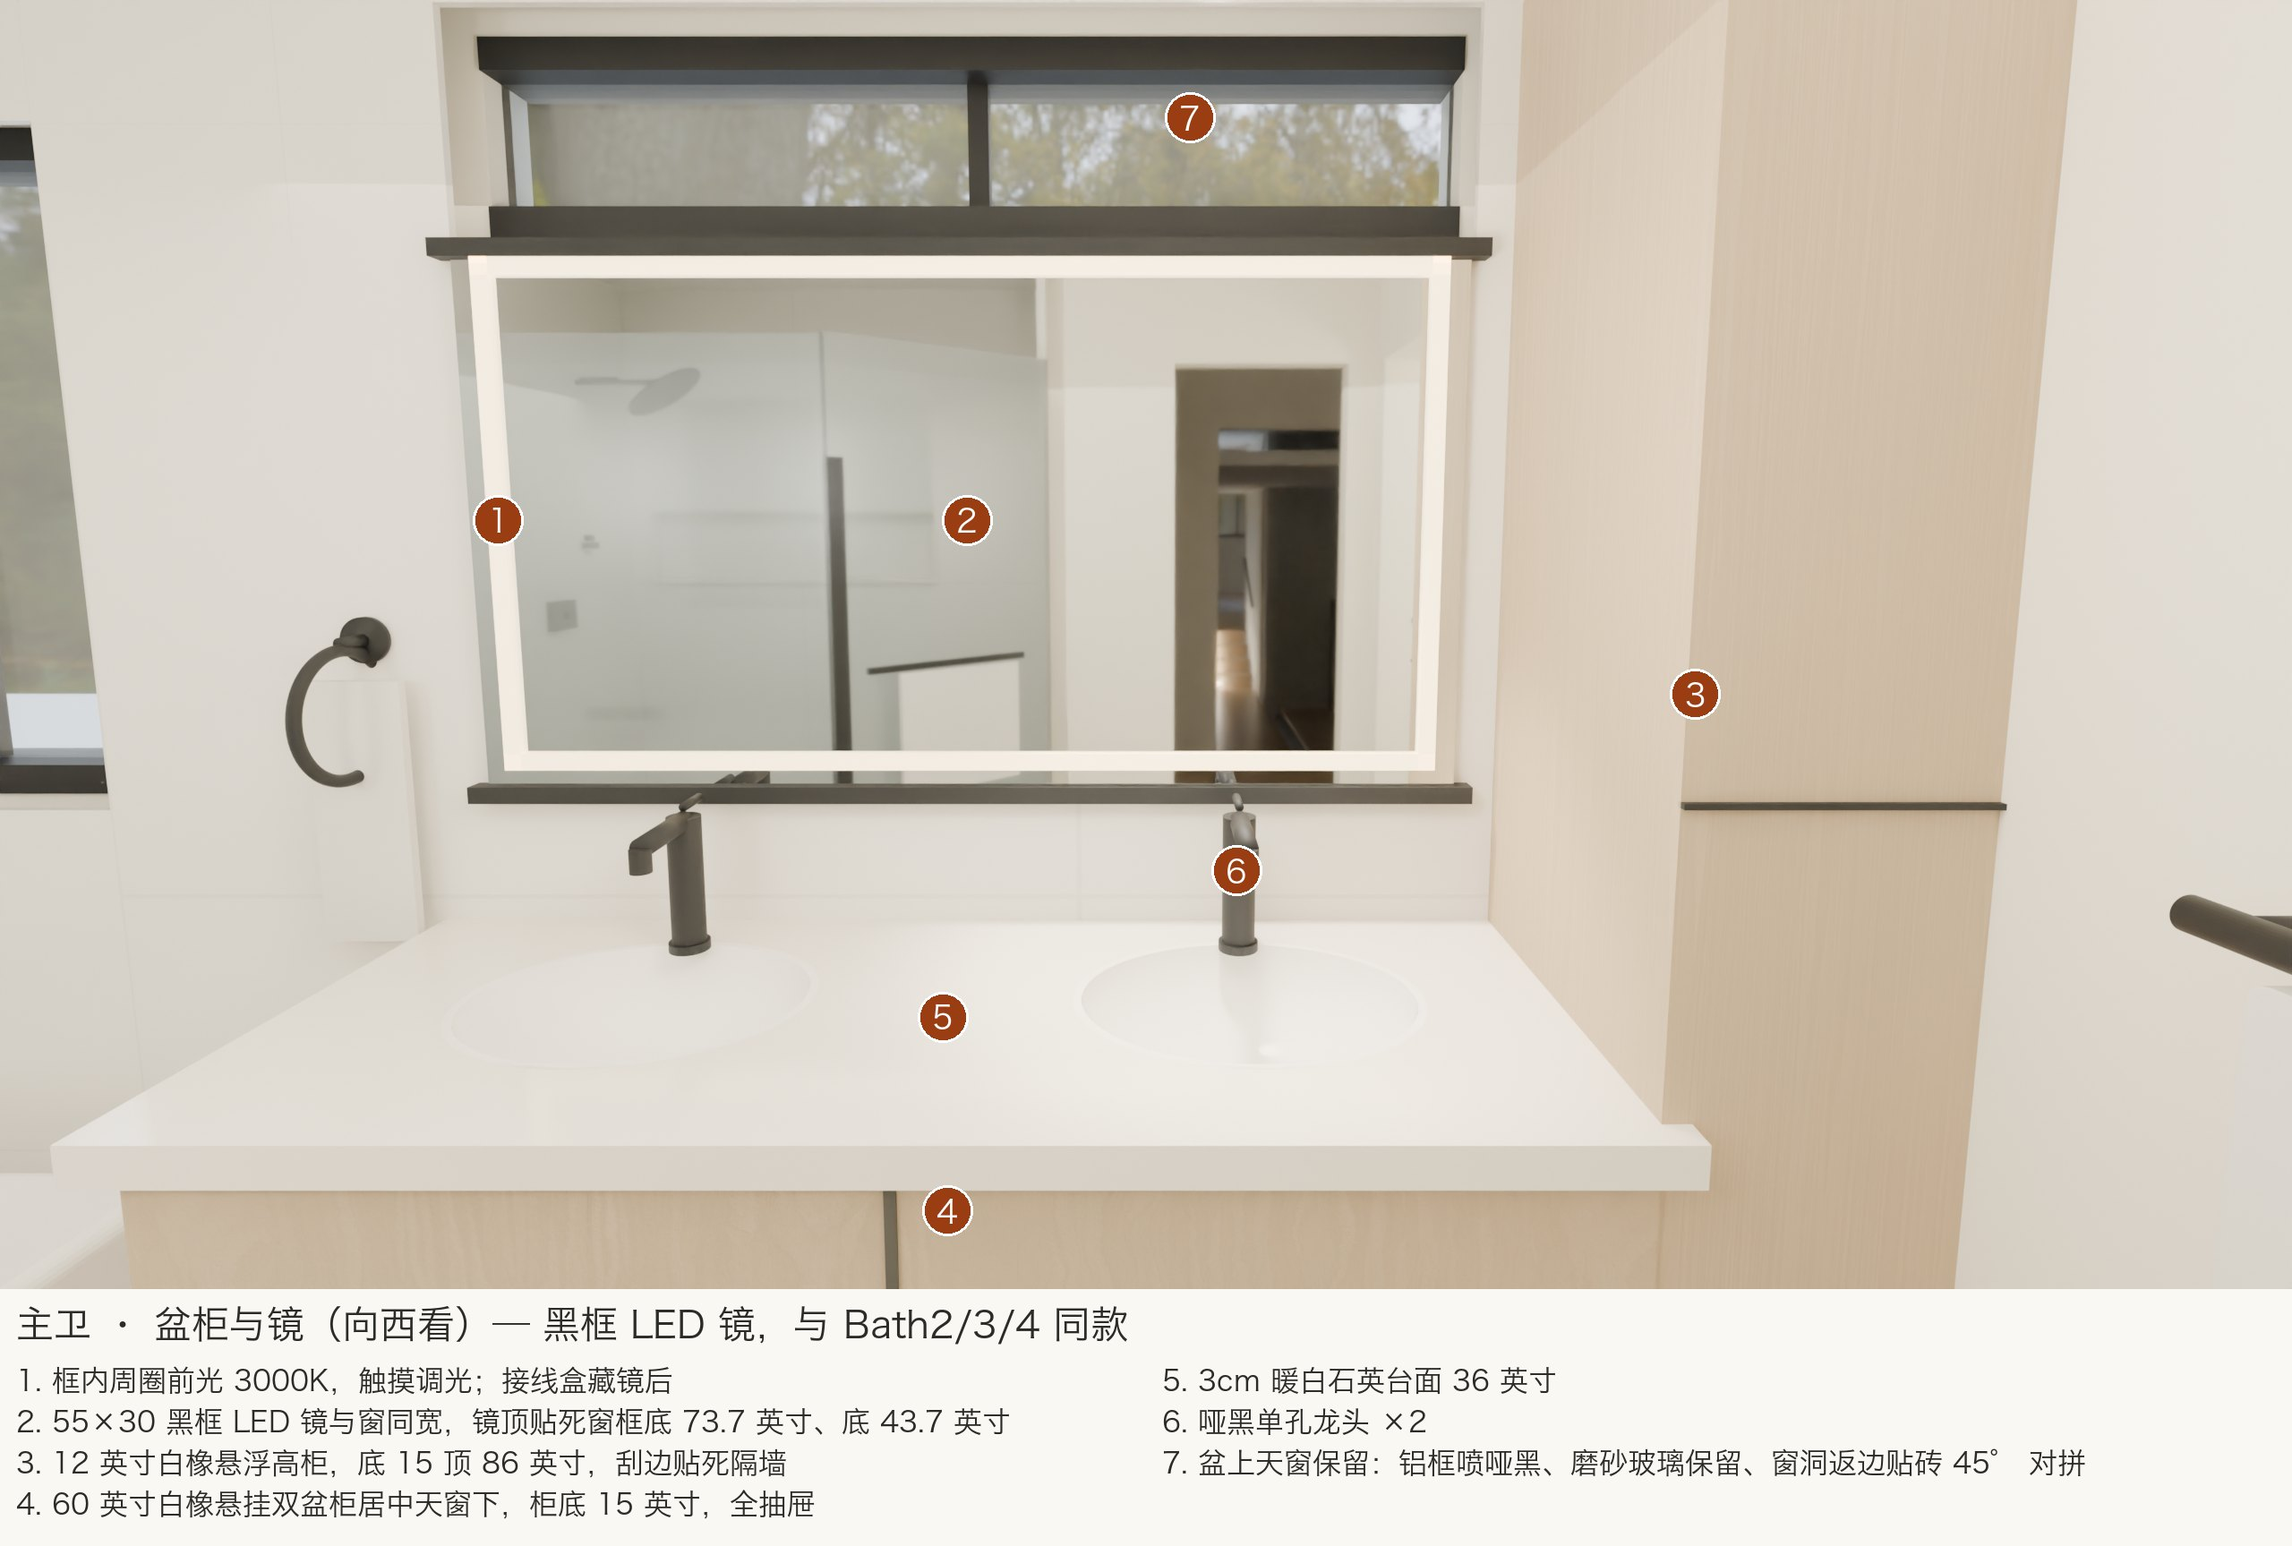
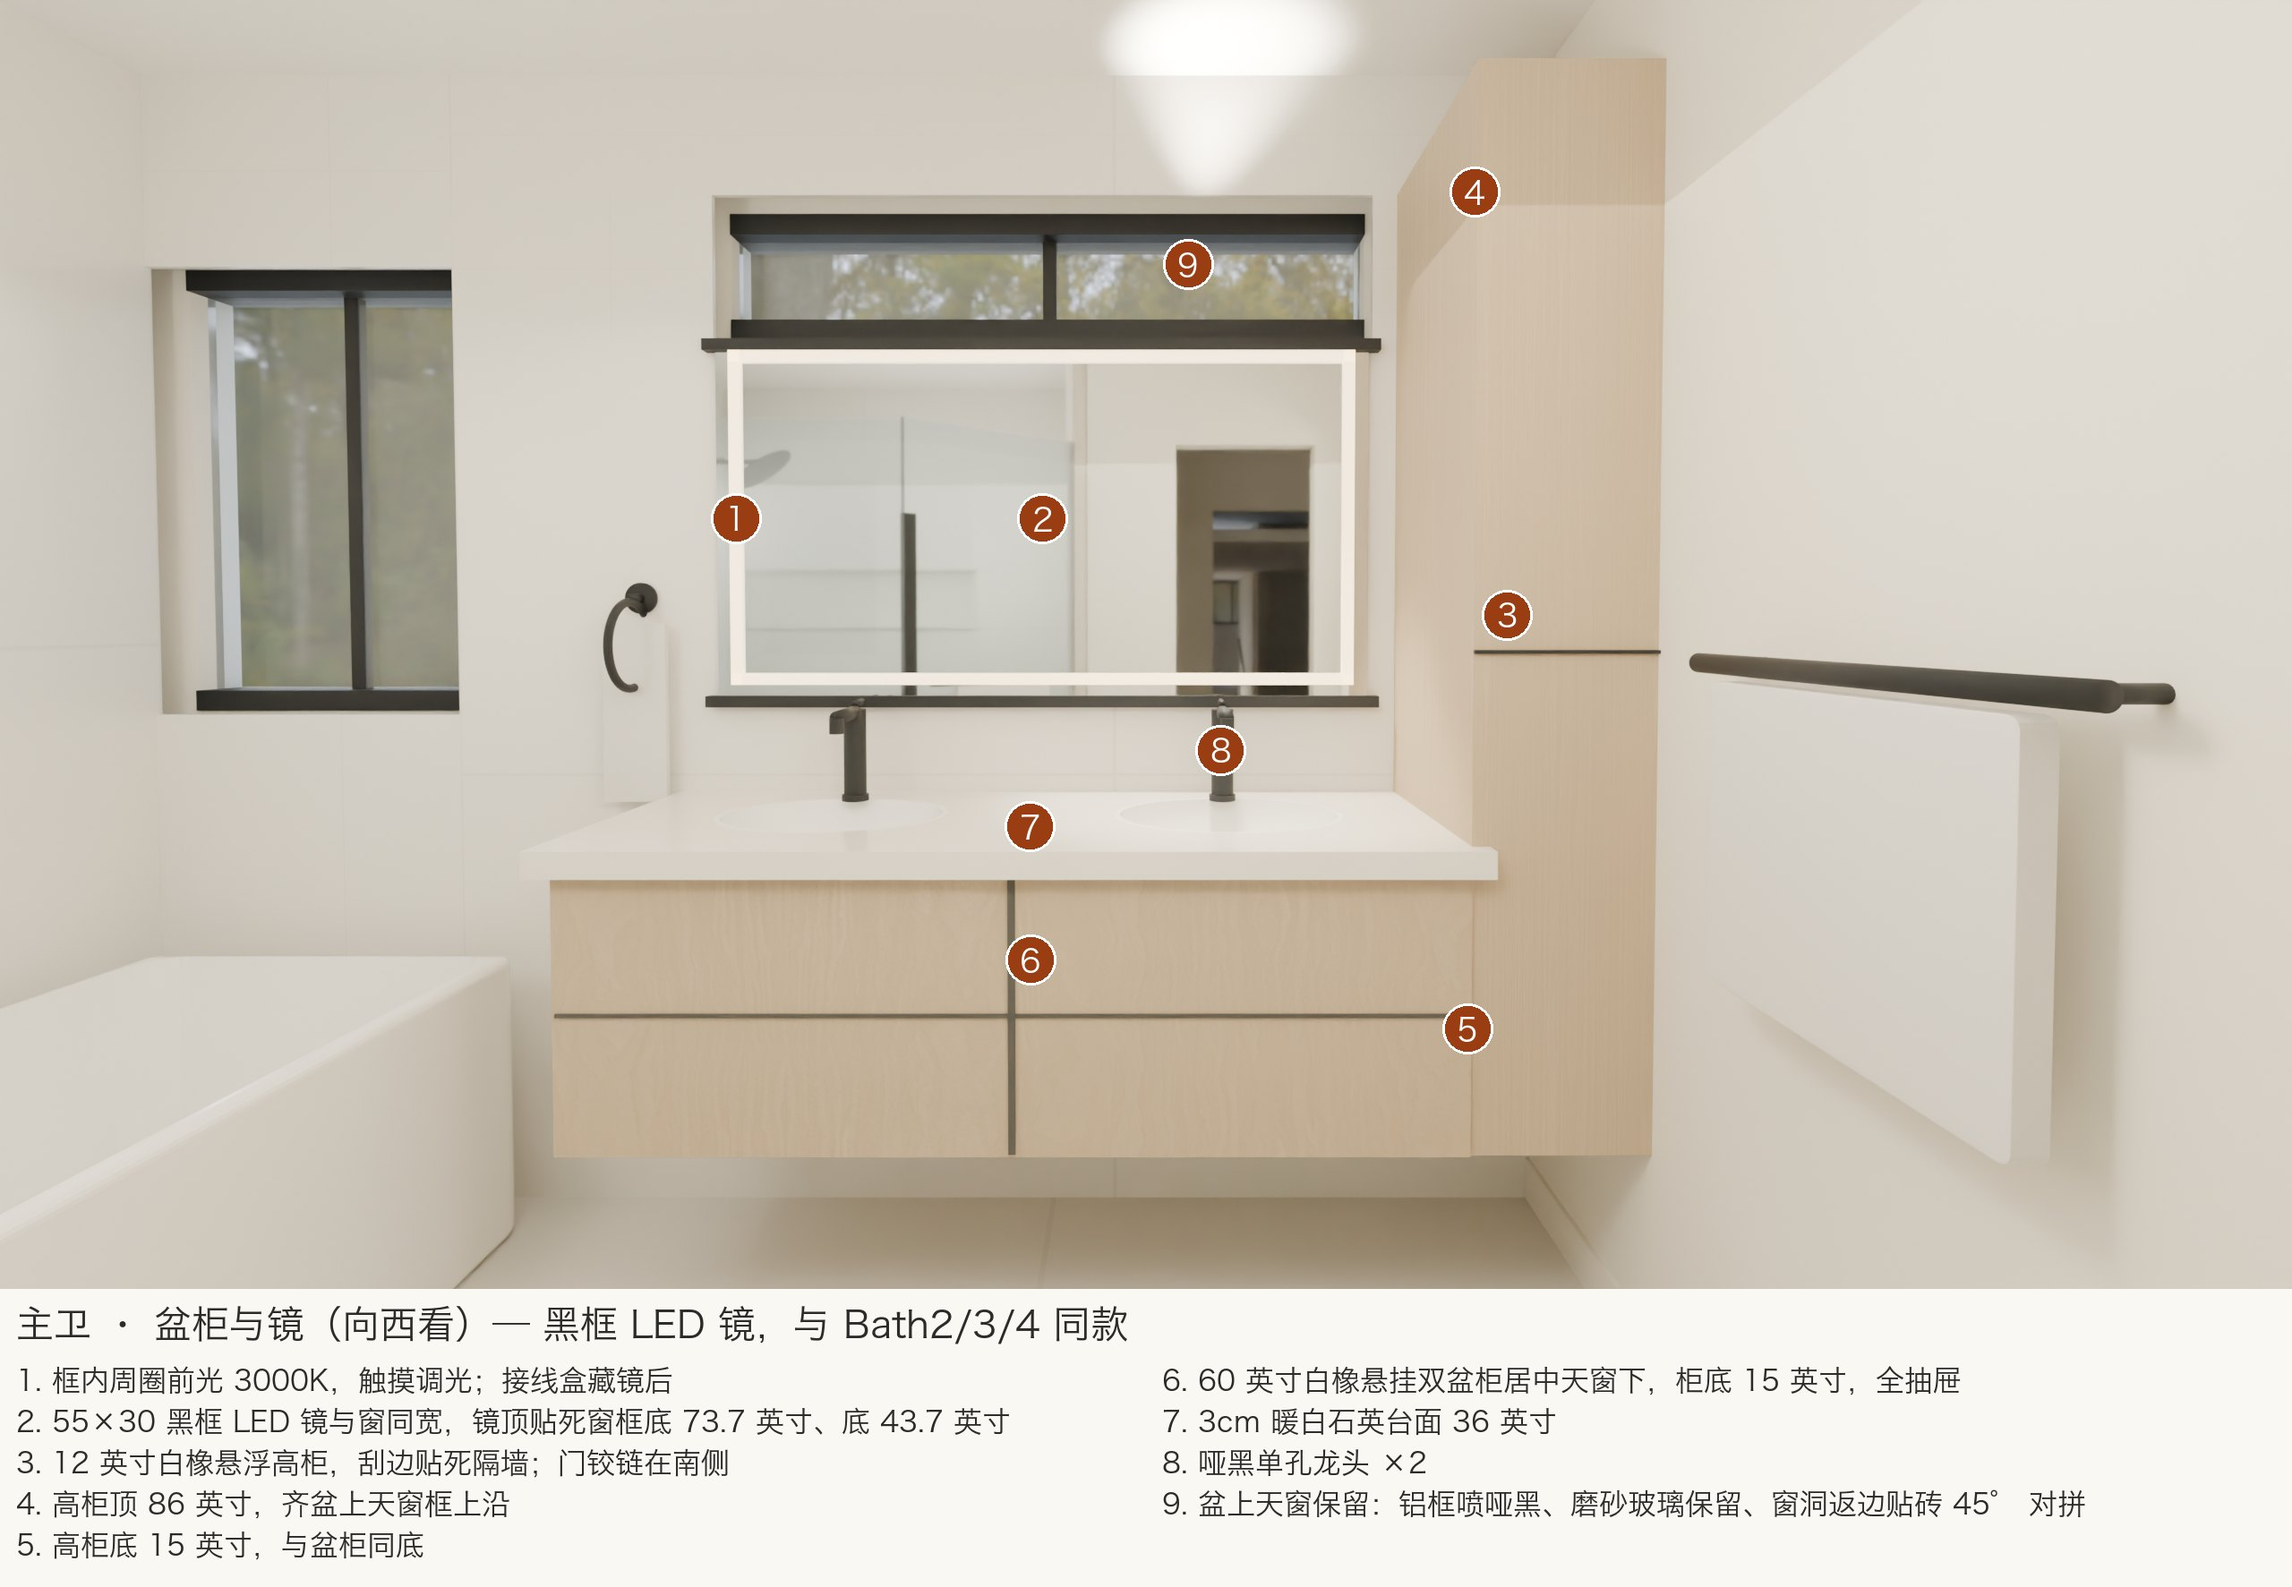
Crew UAT sync 2026-10-25: master vanity wall full-height view

diff --git a/UAT.html b/UAT.html
@@ -120,7 +120,7 @@ li.own,span.own{color:#6b5d3a}li.own::marker{color:#c9b48a}
 <h3 id="s9">9 · 主卫</h3>
 <div class="fig plan"><figure><img src="uat/zone-10.jpg" alt=""><figcaption><b>主卫 · 平面</b> — 本区位置与各房间名称；细节看效果图。</figcaption></figure></div>
 
-<div class="fig three"><figure><img src="uat/B1-overall-anno.jpg" alt=""><figcaption><b>主卫 · 整体（入口门看，带玻璃，带标识）</b> — 左：西墙 60" 悬挂双盆柜 + 55×30 黑框 LED 镜顶贴盆上天窗窗框底（43.7–73.7"）；正前：独立缸 59×29.5 摆在窗下、四周地砖、南墙壁出长臂龙头；右：54×72 切角淋浴：西面 48" 固定玻璃，西北角斜边 30" 无框门向西北外开、铰链西端，锁边落 30" 砖墙垛，无顶梁；缸与玻璃之间 6"。</figcaption></figure><figure><img src="uat/B1-inside-anno.jpg" alt=""><figcaption><b>主卫 · 淋浴内部（去玻璃，从盆柜端看进去，带标识）</b> — 南墙砖墙那半一组：固定花洒 + 滑杆一条竖线（x≈9'5½"），一块圆阀面板 44" 在滑杆西侧；东墙只有一条 48×12 长龛（底 48" 顶 60"，无搁板）；2" 石英低挡水、地砖连铺进盘；36" 线性地漏离南墙 4"；左：独立缸离墙。</figcaption></figure><figure><img src="uat/B1-mirror.jpg" alt=""><figcaption><b>盆柜与镜（向西看，带标识）</b> — 60" 白橡悬挂双盆柜（底 15"）；暖白石英台；55×30 黑框 LED 镜与盆上天窗同宽、镜顶贴死窗框底零缝（43.7–73.7"），西墙整面砖；窗框喷哑黑、磨砂玻璃保留。</figcaption></figure></div>
+<div class="fig three"><figure><img src="uat/B1-overall-anno.jpg" alt=""><figcaption><b>主卫 · 整体（入口门看，带玻璃，带标识）</b> — 左：西墙 60" 悬挂双盆柜 + 55×30 黑框 LED 镜顶贴盆上天窗窗框底（43.7–73.7"）；正前：独立缸 59×29.5 摆在窗下、四周地砖、南墙壁出长臂龙头；右：54×72 切角淋浴：西面 48" 固定玻璃，西北角斜边 30" 无框门向西北外开、铰链西端，锁边落 30" 砖墙垛，无顶梁；缸与玻璃之间 6"。</figcaption></figure><figure><img src="uat/B1-inside-anno.jpg" alt=""><figcaption><b>主卫 · 淋浴内部（去玻璃，从盆柜端看进去，带标识）</b> — 南墙砖墙那半一组：固定花洒 + 滑杆一条竖线（x≈9'5½"），一块圆阀面板 44" 在滑杆西侧；东墙只有一条 48×12 长龛（底 48" 顶 60"，无搁板）；2" 石英低挡水、地砖连铺进盘；36" 线性地漏离南墙 4"；左：独立缸离墙。</figcaption></figure><figure><img src="uat/B1-mirror.jpg" alt=""><figcaption><b>盆柜与镜（向西看全景，带标识）</b> — 左起：隔墙侧 12" 白橡高柜（底 15"、顶 86" 齐天窗框上沿，门铰链南侧）；60" 白橡悬挂双盆柜（底 15"）；暖白石英台；55×30 黑框 LED 镜与盆上天窗同宽、镜顶贴死窗框底零缝（43.7–73.7"），西墙整面砖；窗框喷哑黑、磨砂玻璃保留。</figcaption></figure></div>
 
 <div class="fig three"><figure><img src="uat/B1-junction.jpg" alt=""><figcaption><b>缸 · 留白 · 切角淋浴（盆柜上方俯看）</b> — 独立缸 59×29.5 离西墙 5"、离南墙 4"；缸到西玻璃中线 6"、可见地砖 4"；48" 西玻璃落 2" 挡水；门在西北角斜边向西北开；缸四周零胶缝。</figcaption></figure><figure><img src="uat/D-B1-door-anno.jpg" alt=""><figcaption><b>主卫 · 门半开（对准淋浴，采用方案，带标识）</b> — 淋浴斜边 30" 无框门开 65° 向西北开出、铰链西端（135° 玻对玻铰链，<b>带 90° 限位</b>，24" 毛巾杆式把手），门尖离盆柜前沿约 23"；左：入口门 2068 开 45° 向内（西）、铰链南；马桶间门（画外）向北开、铰链东。</figcaption></figure><figure><img src="uat/B1-hooks.jpg" alt=""><figcaption><b>主卫 · 淋浴出口浴巾（从盆柜前向东南看斜门）</b> — 淋浴斜门装 24" 哑黑毛巾杆式把手（穿玻璃双面：外侧挂浴巾、内侧当拉手），中心 40"；出淋浴伸手即取，开门时浴巾随门扇走；洗前把干浴巾从高柜取出挂上。第二条浴巾挂马桶间隔墙 24" 杆（下图）；墙垛朝走道的一面不挂五金（走道 48" 浮板位）。</figcaption></figure><figure><img src="uat/B1-towel-wall.jpg" alt=""><figcaption><b>主卫 · 马桶间隔墙（淋浴门外向西北看）</b> — 隔墙南面、高柜东缘外 10"、马桶间门套外 6"：24" 哑黑浴巾杆，中心 48"，距西墙 32–56"；挂第二条浴巾和北盆擦手巾；高柜门铰链在南侧、向南开，开门碰不到杆。</figcaption></figure><figure><img src="uat/B1-wc.jpg" alt=""><figcaption><b>马桶间（门口向西看）</b> — 智能马桶靠西墙面朝东；四面全高全高浴室级 PT-01；哑黑纸架 26"；筒灯 1（感应）+ 独立排风。</figcaption></figure></div>
 

diff --git a/index.html b/index.html
@@ -120,7 +120,7 @@ li.own,span.own{color:#6b5d3a}li.own::marker{color:#c9b48a}
 <h3 id="s9">9 · 主卫</h3>
 <div class="fig plan"><figure><img src="uat/zone-10.jpg" alt=""><figcaption><b>主卫 · 平面</b> — 本区位置与各房间名称；细节看效果图。</figcaption></figure></div>
 
-<div class="fig three"><figure><img src="uat/B1-overall-anno.jpg" alt=""><figcaption><b>主卫 · 整体（入口门看，带玻璃，带标识）</b> — 左：西墙 60" 悬挂双盆柜 + 55×30 黑框 LED 镜顶贴盆上天窗窗框底（43.7–73.7"）；正前：独立缸 59×29.5 摆在窗下、四周地砖、南墙壁出长臂龙头；右：54×72 切角淋浴：西面 48" 固定玻璃，西北角斜边 30" 无框门向西北外开、铰链西端，锁边落 30" 砖墙垛，无顶梁；缸与玻璃之间 6"。</figcaption></figure><figure><img src="uat/B1-inside-anno.jpg" alt=""><figcaption><b>主卫 · 淋浴内部（去玻璃，从盆柜端看进去，带标识）</b> — 南墙砖墙那半一组：固定花洒 + 滑杆一条竖线（x≈9'5½"），一块圆阀面板 44" 在滑杆西侧；东墙只有一条 48×12 长龛（底 48" 顶 60"，无搁板）；2" 石英低挡水、地砖连铺进盘；36" 线性地漏离南墙 4"；左：独立缸离墙。</figcaption></figure><figure><img src="uat/B1-mirror.jpg" alt=""><figcaption><b>盆柜与镜（向西看，带标识）</b> — 60" 白橡悬挂双盆柜（底 15"）；暖白石英台；55×30 黑框 LED 镜与盆上天窗同宽、镜顶贴死窗框底零缝（43.7–73.7"），西墙整面砖；窗框喷哑黑、磨砂玻璃保留。</figcaption></figure></div>
+<div class="fig three"><figure><img src="uat/B1-overall-anno.jpg" alt=""><figcaption><b>主卫 · 整体（入口门看，带玻璃，带标识）</b> — 左：西墙 60" 悬挂双盆柜 + 55×30 黑框 LED 镜顶贴盆上天窗窗框底（43.7–73.7"）；正前：独立缸 59×29.5 摆在窗下、四周地砖、南墙壁出长臂龙头；右：54×72 切角淋浴：西面 48" 固定玻璃，西北角斜边 30" 无框门向西北外开、铰链西端，锁边落 30" 砖墙垛，无顶梁；缸与玻璃之间 6"。</figcaption></figure><figure><img src="uat/B1-inside-anno.jpg" alt=""><figcaption><b>主卫 · 淋浴内部（去玻璃，从盆柜端看进去，带标识）</b> — 南墙砖墙那半一组：固定花洒 + 滑杆一条竖线（x≈9'5½"），一块圆阀面板 44" 在滑杆西侧；东墙只有一条 48×12 长龛（底 48" 顶 60"，无搁板）；2" 石英低挡水、地砖连铺进盘；36" 线性地漏离南墙 4"；左：独立缸离墙。</figcaption></figure><figure><img src="uat/B1-mirror.jpg" alt=""><figcaption><b>盆柜与镜（向西看全景，带标识）</b> — 左起：隔墙侧 12" 白橡高柜（底 15"、顶 86" 齐天窗框上沿，门铰链南侧）；60" 白橡悬挂双盆柜（底 15"）；暖白石英台；55×30 黑框 LED 镜与盆上天窗同宽、镜顶贴死窗框底零缝（43.7–73.7"），西墙整面砖；窗框喷哑黑、磨砂玻璃保留。</figcaption></figure></div>
 
 <div class="fig three"><figure><img src="uat/B1-junction.jpg" alt=""><figcaption><b>缸 · 留白 · 切角淋浴（盆柜上方俯看）</b> — 独立缸 59×29.5 离西墙 5"、离南墙 4"；缸到西玻璃中线 6"、可见地砖 4"；48" 西玻璃落 2" 挡水；门在西北角斜边向西北开；缸四周零胶缝。</figcaption></figure><figure><img src="uat/D-B1-door-anno.jpg" alt=""><figcaption><b>主卫 · 门半开（对准淋浴，采用方案，带标识）</b> — 淋浴斜边 30" 无框门开 65° 向西北开出、铰链西端（135° 玻对玻铰链，<b>带 90° 限位</b>，24" 毛巾杆式把手），门尖离盆柜前沿约 23"；左：入口门 2068 开 45° 向内（西）、铰链南；马桶间门（画外）向北开、铰链东。</figcaption></figure><figure><img src="uat/B1-hooks.jpg" alt=""><figcaption><b>主卫 · 淋浴出口浴巾（从盆柜前向东南看斜门）</b> — 淋浴斜门装 24" 哑黑毛巾杆式把手（穿玻璃双面：外侧挂浴巾、内侧当拉手），中心 40"；出淋浴伸手即取，开门时浴巾随门扇走；洗前把干浴巾从高柜取出挂上。第二条浴巾挂马桶间隔墙 24" 杆（下图）；墙垛朝走道的一面不挂五金（走道 48" 浮板位）。</figcaption></figure><figure><img src="uat/B1-towel-wall.jpg" alt=""><figcaption><b>主卫 · 马桶间隔墙（淋浴门外向西北看）</b> — 隔墙南面、高柜东缘外 10"、马桶间门套外 6"：24" 哑黑浴巾杆，中心 48"，距西墙 32–56"；挂第二条浴巾和北盆擦手巾；高柜门铰链在南侧、向南开，开门碰不到杆。</figcaption></figure><figure><img src="uat/B1-wc.jpg" alt=""><figcaption><b>马桶间（门口向西看）</b> — 智能马桶靠西墙面朝东；四面全高全高浴室级 PT-01；哑黑纸架 26"；筒灯 1（感应）+ 独立排风。</figcaption></figure></div>
 
